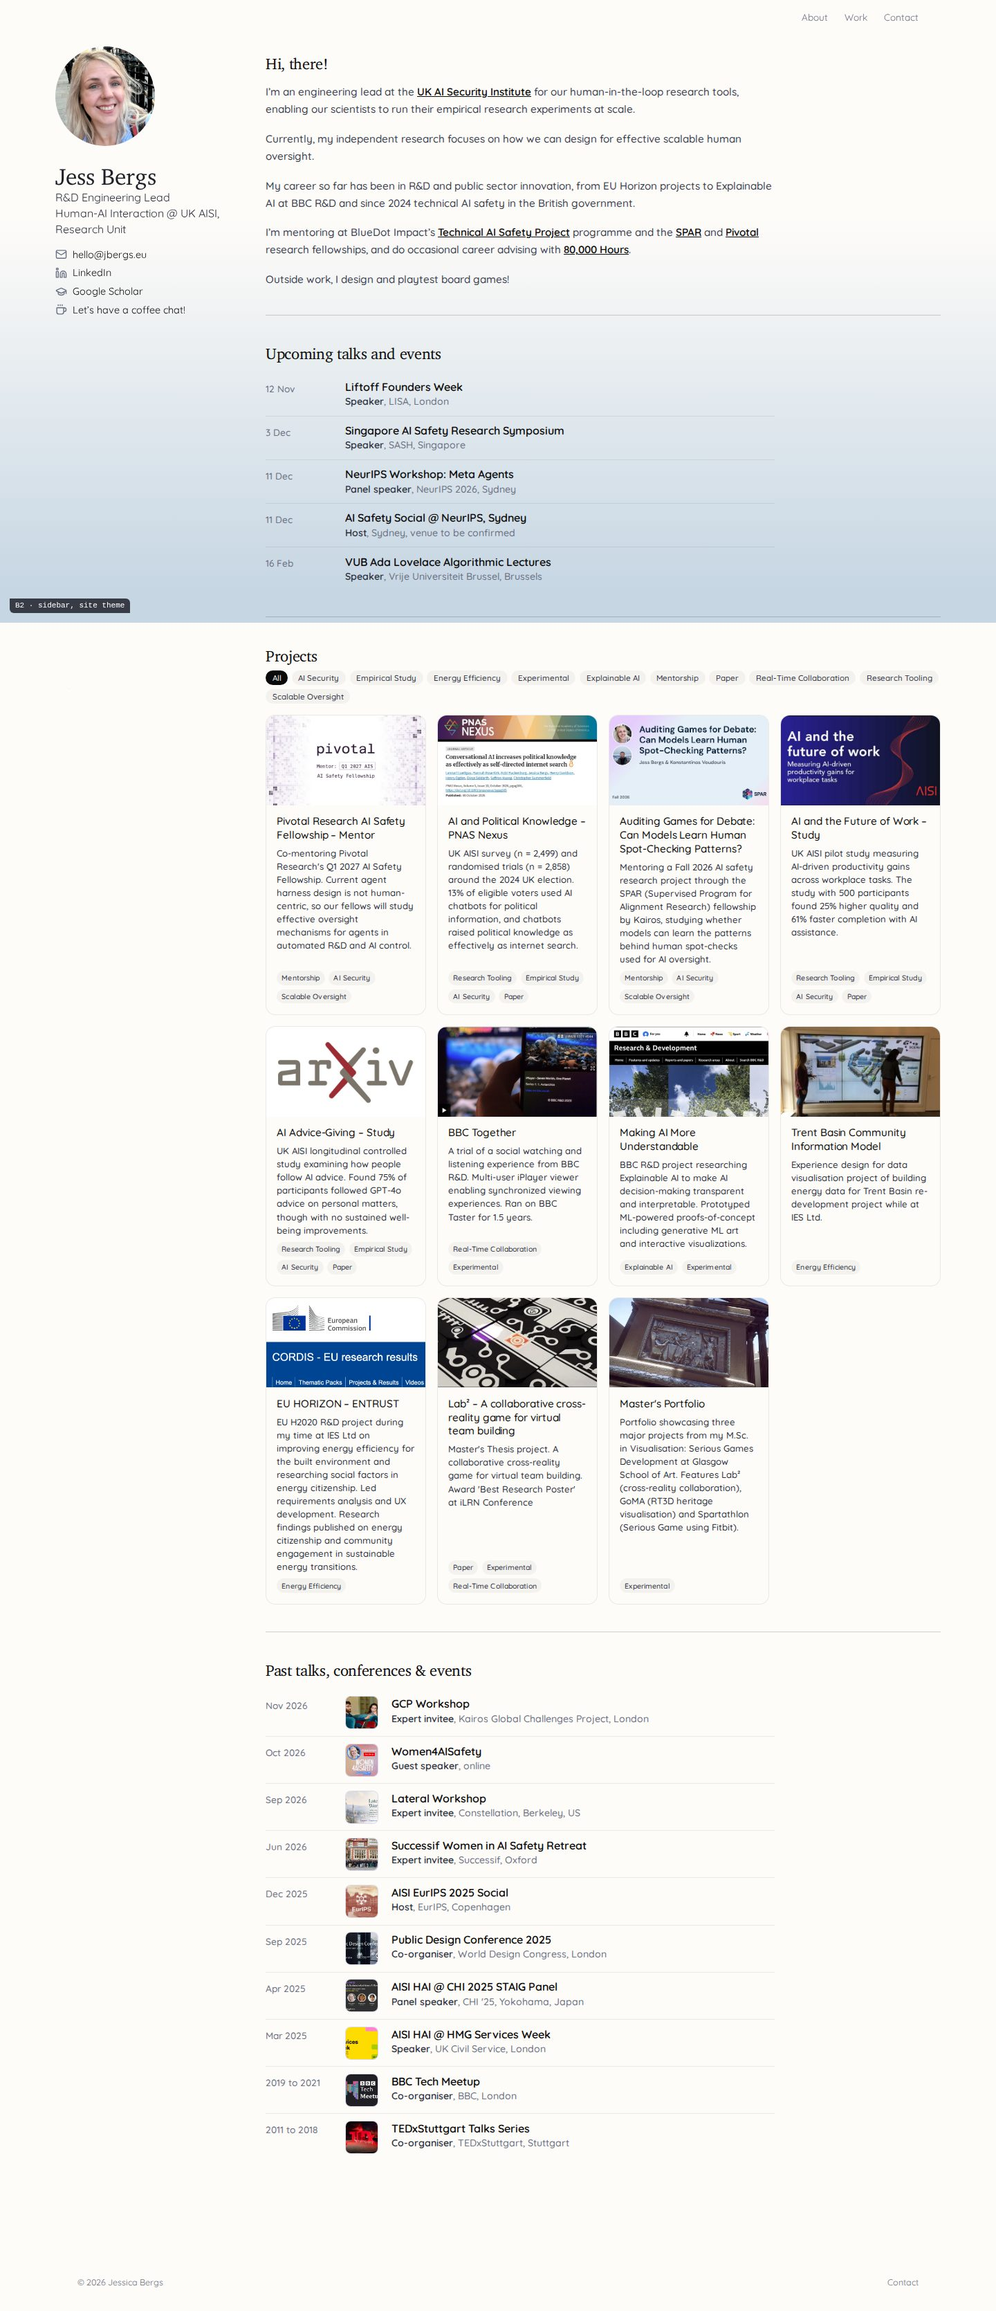
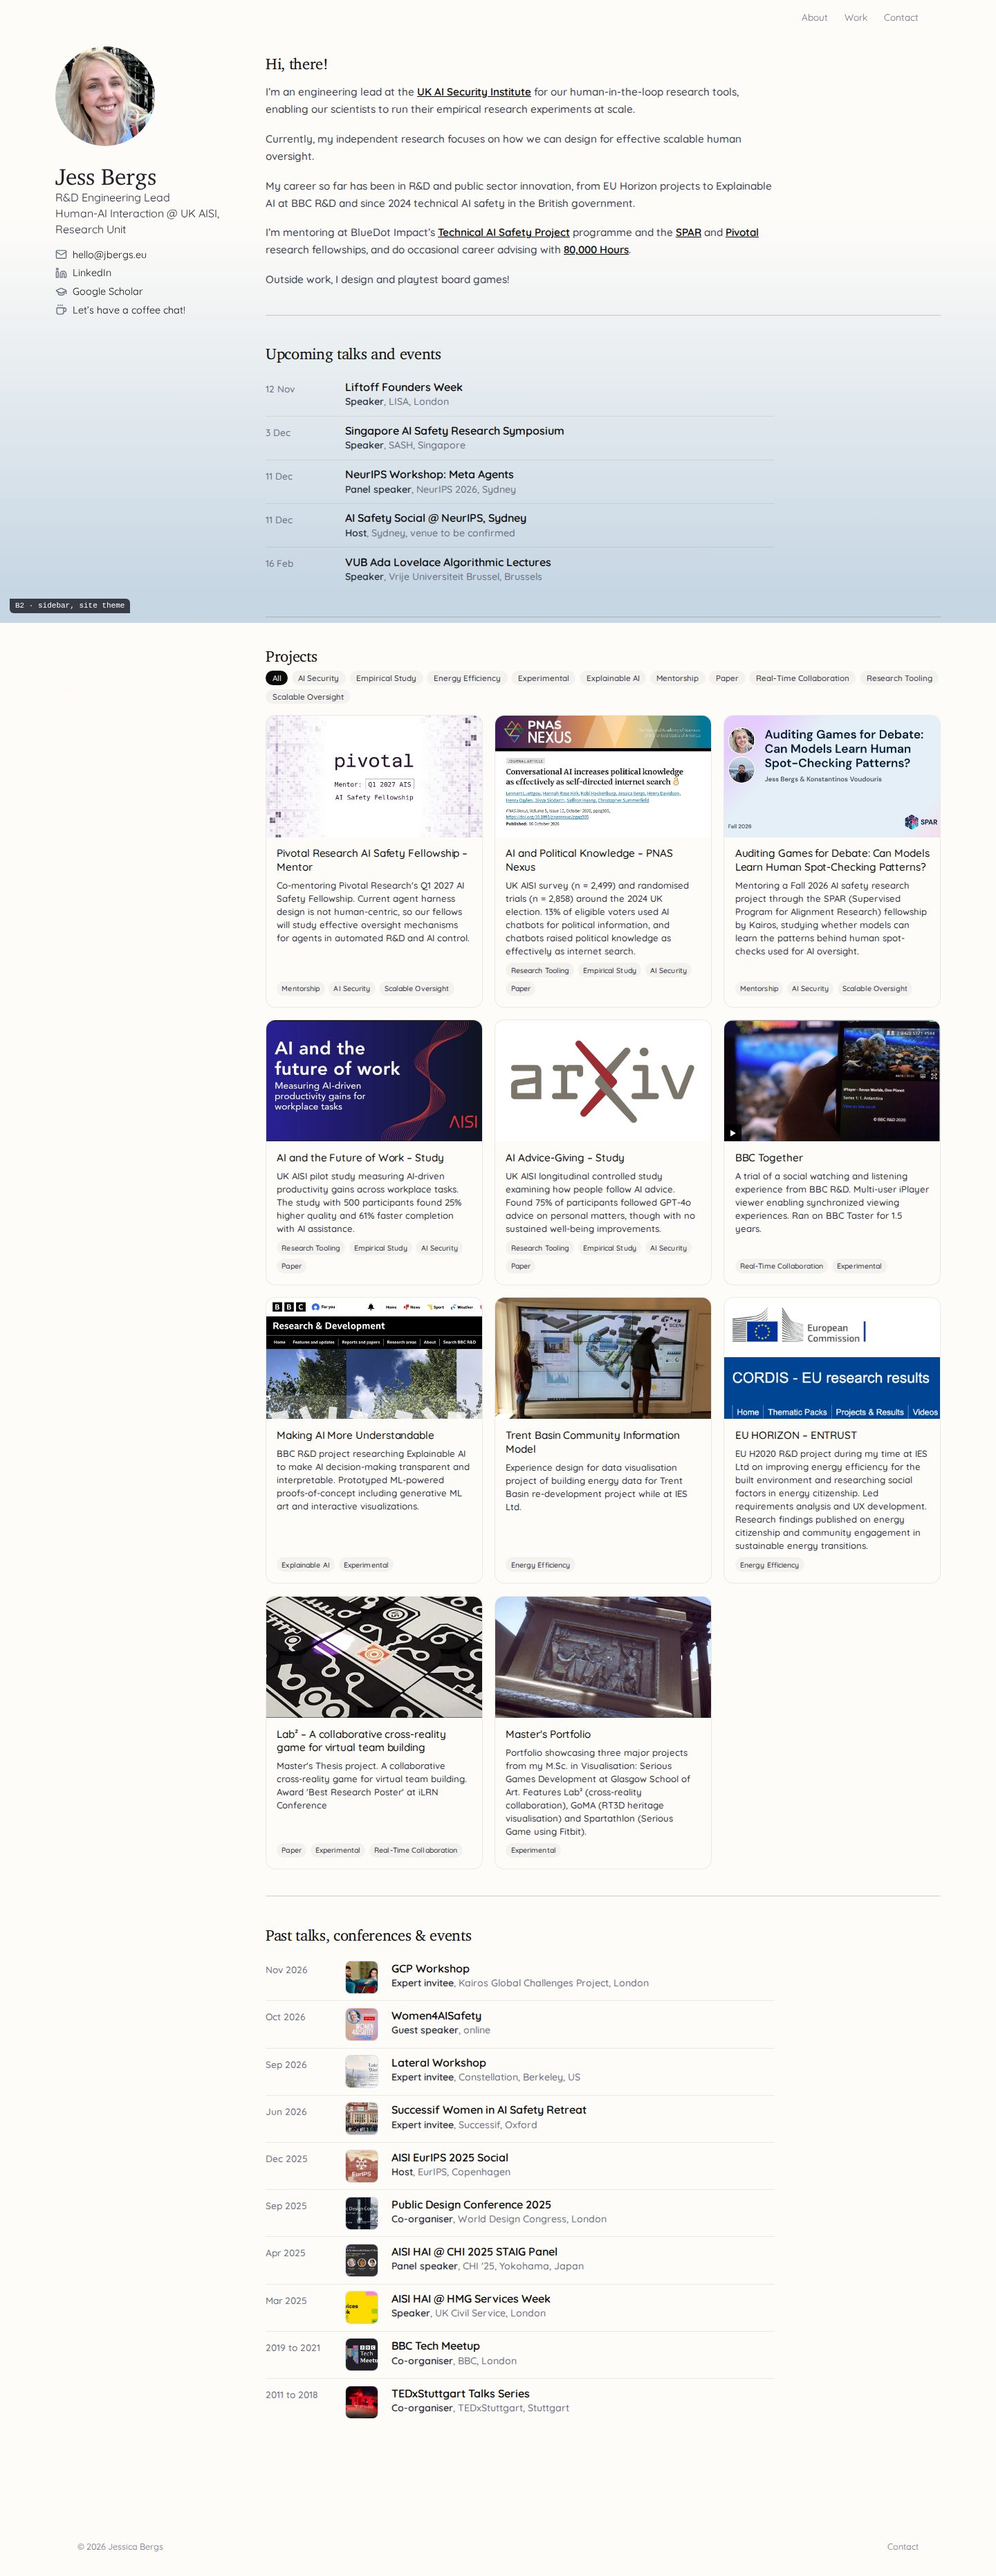
design: three project tiles per row

Changed region(s): [[0.0, 0.0, 1.0, 0.9653], [0.0625, 0.0, 0.1875, 0.1246], [0.2812, 0.8719, 0.3125, 0.9341]]

diff --git a/docs/design/2026-11-academic-concepts/b2-sidebar-site-theme.html b/docs/design/2026-11-academic-concepts/b2-sidebar-site-theme.html
@@ -42,7 +42,7 @@
   .row .m { display: block; font-size: .88rem; font-weight: 500; color: var(--color-ink-mute); margin-top: .05rem; }
   .row .m b { font-weight: 600; color: var(--color-ink-soft); }
 
-  .tiles { display: grid; grid-template-columns: repeat(4, minmax(0, 1fr)); gap: 1rem; }
+  .tiles { display: grid; grid-template-columns: repeat(3, minmax(0, 1fr)); gap: 1.1rem; }
   /* the tiles are narrower here than on the live site, so the type steps down with them */
   .tiles .project-card__body { padding: .85rem .95rem 1rem; gap: .45rem; }
   .tiles .project-card__title { font-size: .95rem; line-height: 1.3; }
@@ -53,7 +53,6 @@
   .more { margin-top: 1.1rem; font-size: .9rem; }
   .more a { color: var(--color-ink-mute); }
 
-  @media (max-width: 72rem) { .tiles { grid-template-columns: repeat(3, minmax(0, 1fr)); } }
   @media (max-width: 56rem) {
     .page { grid-template-columns: 1fr; row-gap: 1.5rem; }
     .side { position: static; display: grid; grid-template-columns: 6rem 1fr; column-gap: 1.2rem; align-items: center; }
